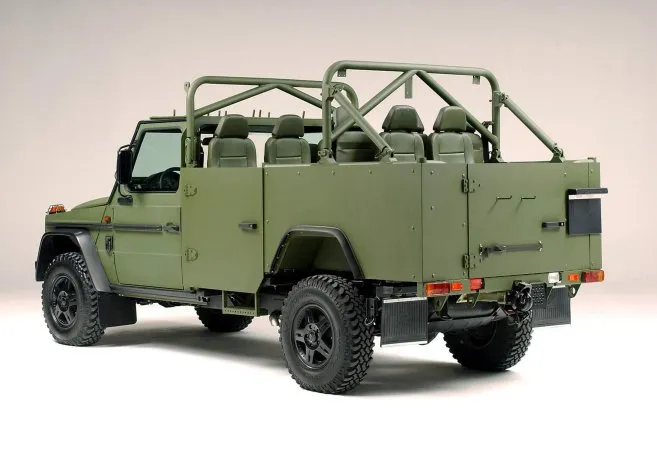
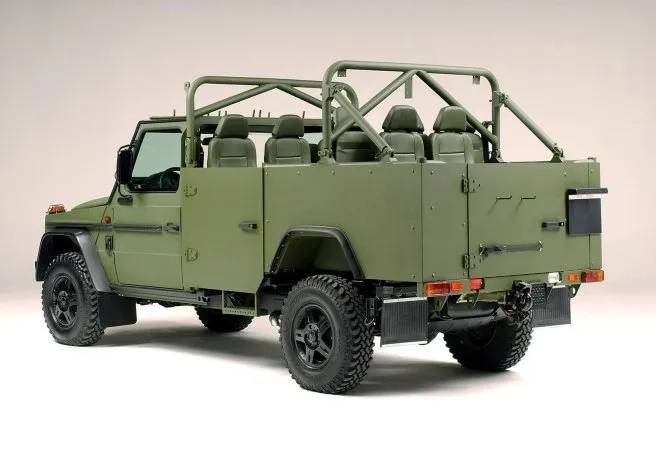
246

diff --git a/pic/ja_mb_img_g.html b/pic/ja_mb_img_g.html
@@ -459,7 +459,7 @@
 						<a href="full/g/w461l_m2_f.jpg"><img loading="lazy" src="style/g/w461l_m2_f.webp" alt="メルセデス,W461,Gクラス,ロング,ミリタリー,フロント" width="566" height="425"></a>
 						<a href="full/g/w461l_m0_f.jpg"><img loading="lazy" src="style/g/w461l_m0_f.webp" alt="メルセデス,W461,Gクラス,ロング,ミリタリー,フロント" width="637" height="425"></a><br>
 						<a href="full/g/w461la_m1_f.jpg"><img loading="lazy" src="style/g/w461la_m1_f.webp" alt="メルセデス,W461,Gクラス,ロング,ミリタリー,フロント" width="1210" height="586"></a><br>
-						<a href="full/g/w461la_m1_r.jpg"><img loading="lazy" src="style/g/w461la_m1_r.webp" alt="メルセデス,W461,Gクラス,ロング,ミリタリー,リヤ" width="657" height="473"></a>
+						<a href="full/g/w461la_m1_r.jpg"><img loading="lazy" src="style/g/w461la_m1_r.webp" alt="メルセデス,W461,Gクラス,ロング,ミリタリー,リヤ" width="656" height="473"></a>
 						<a href="full/g/w460_ambulanz.jpg"><img loading="lazy" src="style/g/w460_ambulanz.webp" alt="メルセデス,W461,Gクラス,ロング,ミリタリー,フロント" width="549" height="473"></a><br>
 						<h5 class="i">6×6</h5>
 						<p class="i m1">Australian Defense Forces 10/2008</p><br>

diff --git a/pic/mb_img_g.html b/pic/mb_img_g.html
@@ -459,7 +459,7 @@
 						<a href="full/g/w461l_m2_f.jpg"><img loading="lazy" src="style/g/w461l_m2_f.webp" alt="Mercedes,W461,G-klasse,Lang,military1,Frontansicht" width="566" height="425"></a>
 						<a href="full/g/w461l_m0_f.jpg"><img loading="lazy" src="style/g/w461l_m0_f.webp" alt="Mercedes,W461,G-klasse,Lang,military3,Frontansicht" width="637" height="425"></a><br>
 						<a href="full/g/w461la_m1_f.jpg"><img loading="lazy" src="style/g/w461la_m1_f.webp" alt="Mercedes,W461,G-klasse,Lang,military4,Frontansicht" width="1210" height="586"></a><br>
-						<a href="full/g/w461la_m1_r.jpg"><img loading="lazy" src="style/g/w461la_m1_r.webp" alt="Mercedes,W461,G-klasse,Lang,military5,Rückansicht" width="657" height="473"></a>
+						<a href="full/g/w461la_m1_r.jpg"><img loading="lazy" src="style/g/w461la_m1_r.webp" alt="Mercedes,W461,G-klasse,Lang,military5,Rückansicht" width="656" height="473"></a>
 						<a href="full/g/w460_ambulanz.jpg"><img loading="lazy" src="style/g/w460_ambulanz.webp" alt="Mercedes,W461,G-klasse,Lang,military6,Frontansicht" width="549" height="473"></a><br>
 						<h5 class="i">6×6</h5>
 						<p class="i m1">Australische Verteidigungskr&auml;fte 10/2008</p><br>

diff --git a/pic/en_mb_img_g.html b/pic/en_mb_img_g.html
@@ -459,7 +459,7 @@
 						<a href="full/g/w461l_m2_f.jpg"><img loading="lazy" src="style/g/w461l_m2_f.webp" alt="Mercedes,W461,G-class,long,military1,Front view" width="566" height="425"></a>
 						<a href="full/g/w461l_m0_f.jpg"><img loading="lazy" src="style/g/w461l_m0_f.webp" alt="Mercedes,W461,G-class,long,military3,Front view" width="637" height="425"></a><br>
 						<a href="full/g/w461la_m1_f.jpg"><img loading="lazy" src="style/g/w461la_m1_f.webp" alt="Mercedes,W461,G-class,long,military4,Front view" width="1210" height="586"></a><br>
-						<a href="full/g/w461la_m1_r.jpg"><img loading="lazy" src="style/g/w461la_m1_r.webp" alt="Mercedes,W461,G-class,long,military5,Rear view" width="657" height="473"></a>
+						<a href="full/g/w461la_m1_r.jpg"><img loading="lazy" src="style/g/w461la_m1_r.webp" alt="Mercedes,W461,G-class,long,military5,Rear view" width="656" height="473"></a>
 						<a href="full/g/w460_ambulanz.jpg"><img loading="lazy" src="style/g/w460_ambulanz.webp" alt="Mercedes,W461,G-class,long,military6,Front view" width="549" height="473"></a><br>
 						<h5 class="i">6×6</h5>
 						<p class="i m1">Australian Defense Forces 10/2008</p><br>
